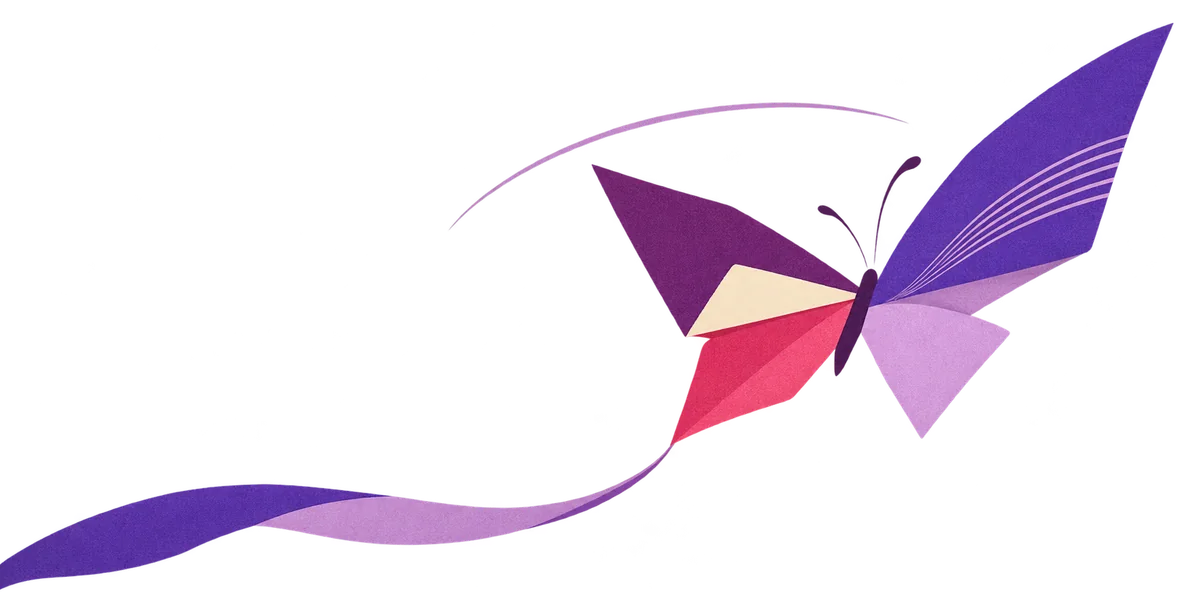
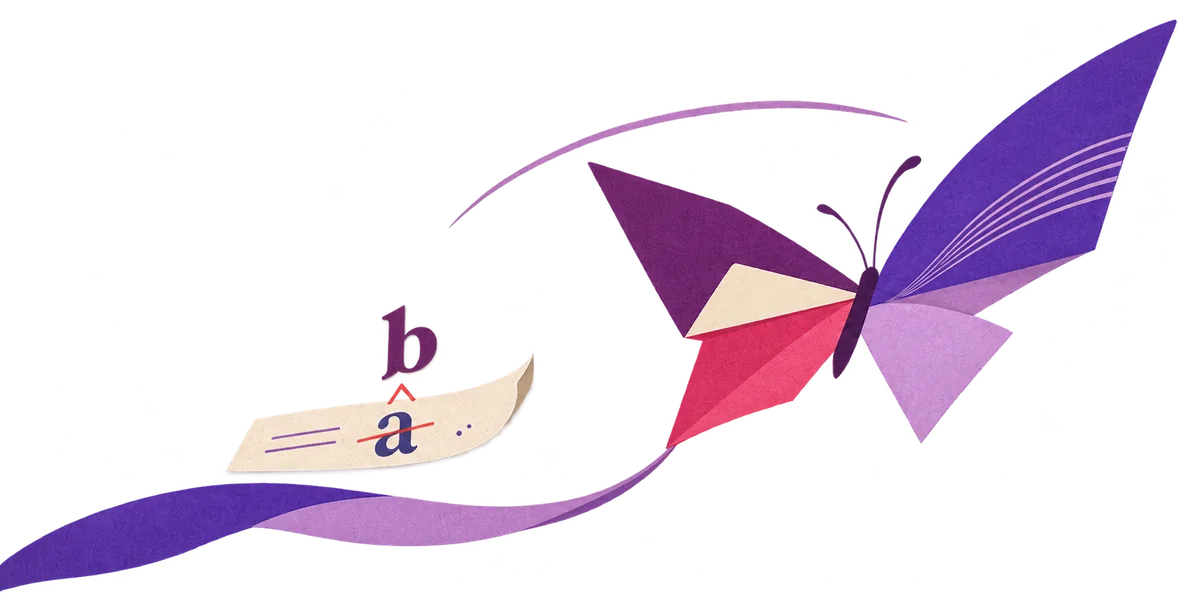
feat(home): 为妙替纸蝶添上换字校样并重绘妙压纸狐

diff --git a/polyhouse-web/src/components/ToolArtwork.vue b/polyhouse-web/src/components/ToolArtwork.vue
@@ -1,7 +1,7 @@
 <script setup lang="ts">
 import tideVoyage from '../assets/startide-voyage.webp'
 import paperButterfly from '../assets/polyreplace-paper-butterfly.webp'
-import foldedSunset from '../assets/targetkb-folded-sunset.webp'
+import paperFox from '../assets/targetkb-paper-fox.webp'
 
 /** 首页用入口类别选择装饰插画，链接的可访问名称由首页提供。 */
 interface Props {
@@ -12,21 +12,18 @@ defineProps<Props>()
 const covers = {
   trend: {
     image: tideVoyage,
-    height: 600,
     label: 'GITHUB TRENDING',
     name: 'StarTide',
     caption: '每天，发现开源新星。',
   },
   text: {
     image: paperButterfly,
-    height: 600,
     label: 'THE ART OF LESS REPETITION',
     name: 'PolyReplace',
     caption: '文字的事，简单一点。',
   },
   image: {
-    image: foldedSunset,
-    height: 451,
+    image: paperFox,
     label: 'MAKE ROOM FOR THE PERFECT FIT',
     name: 'TargetKB',
     caption: '每一张，都刚刚好。',
@@ -42,7 +39,7 @@ const covers = {
       :src="covers[kind].image"
       alt=""
       width="1200"
-      :height="covers[kind].height"
+      height="600"
       decoding="async"
     />
     <span class="art-caption"
@@ -86,7 +83,7 @@ const covers = {
 }
 .text .illustration,
 .image .illustration {
-  /* 纸蝶的翼形和落日的圆弧在各宽度下保持原比例。 */
+  /* 纸蝶的翼形和纸狐的折面在各宽度下保持原比例。 */
   object-fit: contain;
 }
 .text .illustration {

diff --git a/docs/dev-log/v1.0-dev.15.md b/docs/dev-log/v1.0-dev.15.md
@@ -2,7 +2,7 @@
 
 ## 当前摘要
 
-- [首页妙替与妙压卡面重绘](#首页妙替与妙压卡面重绘)完成本地验证，独立分支待视觉确认。
+- [首页妙替与妙压卡面重绘](#首页妙替与妙压卡面重绘)已按反馈更新为换字纸蝶与收尾纸狐，独立分支完成本地复验，待视觉确认。
 
 - 星潮任务分支 `codex/github-tech-radar` 源自本机 dev `c06ed41`，包含 PR #5 合入记录 `c7d391f`。用户批准复验通过后经 PR 合入 GitHub `dev`，见[合入前复验](#合入-dev-前复验)。
 - [阶段方案](../plans/github-tech-radar.md)已归档。用户确认日榜、中文 AI 解读、历史阅读、公开只读、仅屋主更新、月预算人民币 10 元以内，以及 S1～S4 全部推荐项；自动与手动复用流程，后端先行。
@@ -20,6 +20,10 @@
 2026-11-22。独立工作树的 `codex/home-tool-card-artwork` 从本机 `dev` 的 `19ffc99` 建立，原工作树继续用于星潮文章。按用户反馈简化主体，沿用星潮纸船的纸张折面与印刷质感。妙替用淡紫底上的纸蝶和飞行轨迹表达变化，妙压用蜜桃底上的橘日与折叠山线表达收拢。两张透明 WebP 合计约 115 KiB；首页插画组件沿用原题签和卡面尺寸。网格、工作台与入口仍由原页面管理。
 
 本轮执行 `npm run build`（含类型检查）、`npm run lint:check` 和组件 Prettier 检查，均通过。Chrome 在 1280px 留存修改前后画廊截图，在 320、375、760、761、1280、1440px 核对列数、页面宽度及三张卡面题签和按钮的位置，均无横向溢出或底部入口遮挡。Tab、回车打开妙替，鼠标打开妙压，进入后均可后退回画廊；按文本分类和输入“妙压”各只显示对应卡片。下一步待用户确认卡面观感后决定是否经 PR 合入 dev。
+
+**11 月 22 日二次试稿。** 按用户反馈保留妙替纸蝶与紫色飘带，在左侧补入划去 a、换为 b 的校样纸条。妙压改为蜜桃底上的橘色纸狐，用收拢的长尾呼应体积收小。两张透明 WebP 统一为 1200×600，合计约 230 KiB；首页沿用原卡面布局。首稿见本地提交 `db9e723`。
+
+本轮重新执行 `npm run build`、`npm run lint:check` 和组件 Prettier 检查，全部通过。Chrome 在 320、375、760、761、1280、1440px 核对卡面、题签和按钮，无横向溢出或底部遮挡。已查看桌面及手机实景，复验键盘打开妙替、鼠标打开妙压、后退、文本分类及妙压搜索。待用户看图确认后决定是否集成。
 
 ## 合入 dev 前复验
 

diff --git a/DEV_LOG.md b/DEV_LOG.md
@@ -2,7 +2,7 @@
 
 更新时间：2026-11-22（Asia/Shanghai）。**v1.0 开发中。**
 
-- 首页：[妙替纸蝶与妙压落日卡面](docs/dev-log/v1.0-dev.15.md#首页妙替与妙压卡面重绘)已在独立分支完成本地验证，待看图确认后集成。
+- 首页：[妙替换字纸蝶与妙压纸狐卡面](docs/dev-log/v1.0-dev.15.md#首页妙替与妙压卡面重绘)已在独立分支完成本地验证，待看图确认后集成。
 - 星潮：[星潮采集、生成与发布](docs/dev-log/v1.0-dev.15.md#工程收口与文章交接)完成本机阶段核对。11 月 21 日常规采集截图已有本期新稿，读者反馈正文难懂。[文章结构专项](docs/plans/startide-insight-quality.md#文章结构专项候选)留给后续独立分支。11 月 20 日下午断源的首个故障仍缺现场证据。
 - [前端技能](docs/operations/ui-ux-skill.md)保留正式版 v2.15.0。WSL 服务已恢复，原 Redis 启动检查通过，Docker 作为备用入口。
 - 集成：星潮通过[合入前复验](docs/dev-log/v1.0-dev.15.md#合入-dev-前复验)，用户授权任务分支经 PR 进入 GitHub `dev`。后续文章专项以集成后的 `dev` 为基线。
